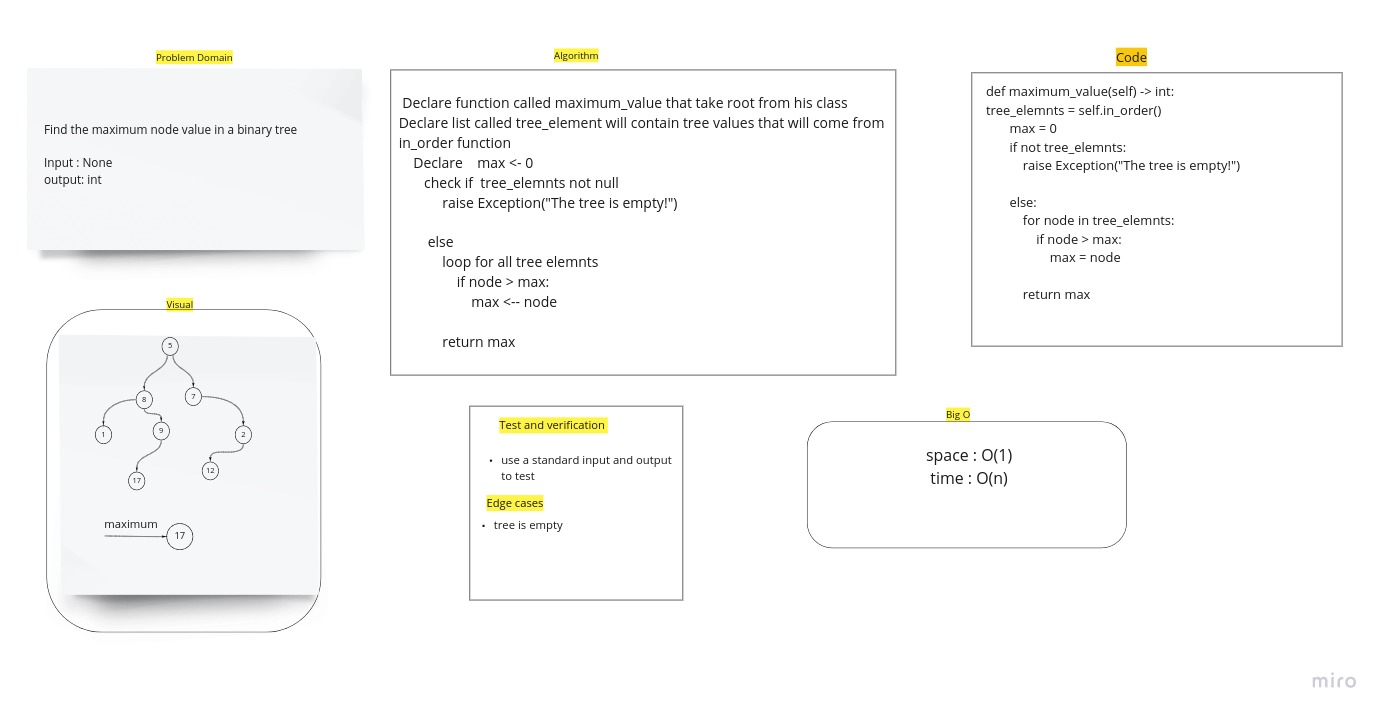
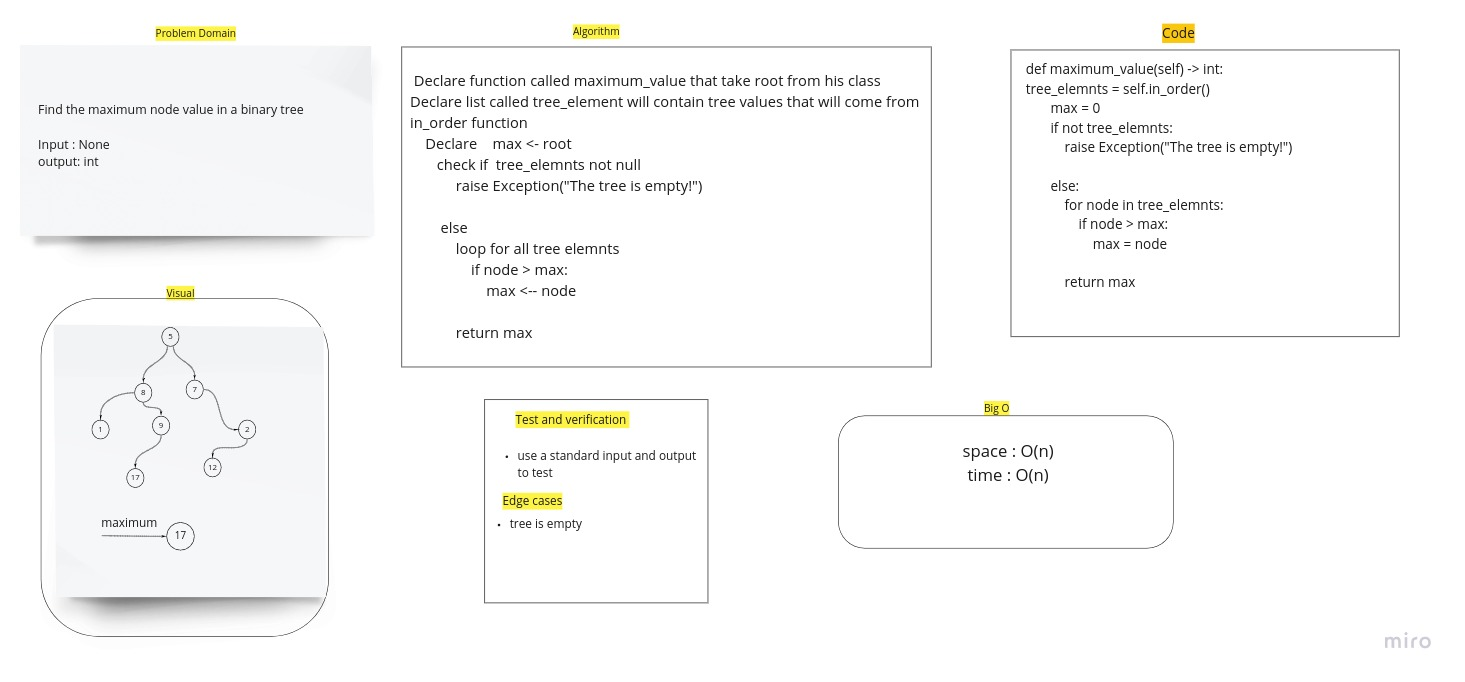
fix Big O and max initial

diff --git a/python/binary_search/binary_tree.py b/python/binary_search/binary_tree.py
@@ -51,11 +51,10 @@ class BinaryTree:
 
     def maximum_value(self) -> int:
         tree_elemnts = self.in_order()
-        max = 0
         if not tree_elemnts:
             raise Exception("The tree is empty!")
-
         else:
+            max = self.root.value
             for node in tree_elemnts:
                 if node > max:
                     max = node
@@ -124,17 +123,17 @@ class Binary_Search_Tree(BinaryTree):
 
 
 if __name__ == "__main__":
-    # bt = BinaryTree()
-    # bt.root = Node(2)
-    # bt.root.right = Node(5)
-    # bt.root.left = Node(7)
-    # bt.root.left.left = Node(2)
-    # bt.root.left.right = Node(6)
-    # bt.root.left.right.left = Node(5)
-    # bt.root.left.right.right = Node(11)
-    # bt.root.right.right = Node(9)
-    # bt.root.right.right.left = Node(4)
-    # print(bt.maximum_value(), "maximum")
+    bt = BinaryTree()
+    bt.root = Node(2)
+    bt.root.right = Node(5)
+    bt.root.left = Node(7)
+    bt.root.left.left = Node(2)
+    bt.root.left.right = Node(6)
+    bt.root.left.right.left = Node(5)
+    bt.root.left.right.right = Node(11)
+    bt.root.right.right = Node(9)
+    bt.root.right.right.left = Node(4)
+    print(bt.maximum_value(), "maximum")
     # print(bt.pre_order())
     # print(bt.in_order())
     # print(bt.post_order())

diff --git a/python/binary_search/README.md b/python/binary_search/README.md
@@ -6,12 +6,12 @@
 
 ## Whiteboard Process
 
-    ![](codechallenge16.jpg)
+![](codechallenge16.jpg)
 
 ## Approach & Efficiency
 
 This to find the best way for the compiler to excution to search for element in list.
-time: O(n) space: O(1)
+time: O(n) space: O(n)
 
 ## Solution
 
@@ -27,7 +27,7 @@ this program use binary search algorithem to serch inside list for element.
 
 ## Whiteboard Process
 
-    ![](codechallenge03.png)
+![](codechallenge03.png)
 
 ## Approach & Efficiency
 
